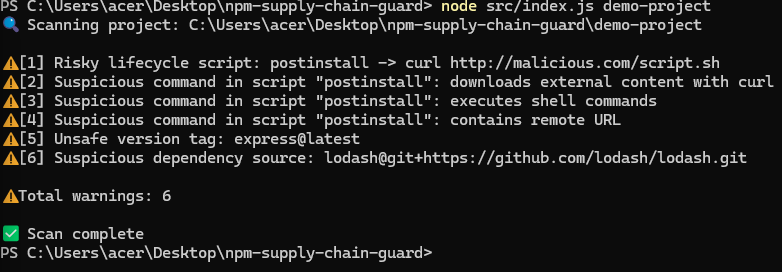
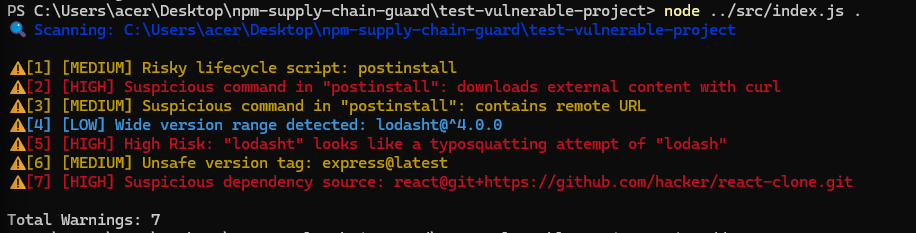
your message

diff --git a/src/index.js b/src/index.js
@@ -17,30 +17,24 @@ const SUSPICIOUS_PATTERNS = [
   { regex: /https?:\/\//i, reason: "contains remote URL", severity: "medium" },
 ];
 
-const CLOUD_RISKS = [
-  { regex: /169\.254\.169\.254/, reason: "Attempts to access Cloud Instance Metadata (AWS/GCP/Azure) - critical credential theft risk", severity: "high" },
-  { regex: /metadata\.google\.internal/i, reason: "Attempts to access GCP metadata endpoint", severity: "high" },
-  { regex: /AKIA[0-9A-Z]{16}/, reason: "Hardcoded AWS Access Key ID detected", severity: "high" },
-  { regex: /xox[baprs]-[0-9a-zA-Z]{10,48}/, reason: "Hardcoded Slack Token detected", severity: "high" }
-];
-
 // --- UTILITIES ---
 
-function getEditDistance(a, b) {
-  const matrix = Array.from({ length: a.length + 1 }, (_, i) => [i]);
-  for (let j = 1; j <= b.length; j++) matrix[0][j] = j;
-
-  for (let i = 1; i <= a.length; i++) {
-    for (let j = 1; j <= b.length; j++) {
-      const cost = a[i - 1] === b[j - 1] ? 0 : 1;
-      matrix[i][j] = Math.min(
-        matrix[i - 1][j] + 1,      
-        matrix[i][j - 1] + 1,      
-        matrix[i - 1][j - 1] + cost 
-      );
+// Fast O(n) check for a single character insertion, deletion, or substitution
+function isOneIndexChange(target, input) {
+  if (target === input || Math.abs(target.length - input.length) > 1) return false;
+  
+  let i = 0, j = 0, diffs = 0;
+  while (i < target.length && j < input.length) {
+    if (target[i] !== input[j]) {
+      diffs++;
+      if (diffs > 1) return false;
+      if (target.length > input.length) j--; // target has extra char
+      else if (input.length > target.length) i--; // input has extra char
     }
+    i++;
+    j++;
   }
-  return matrix[a.length][b.length];
+  return true;
 }
 
 function addWarning(warnings, type, message, severity = "low", meta = {}) {
@@ -48,27 +42,6 @@ function addWarning(warnings, type, message, severity = "low", meta = {}) {
 }
 
 // --- SCANNING ENGINES ---
-
-function scanCloudRisks(pkg, warnings) {
-  // We stringify the package to catch secrets hidden anywhere (descriptions, custom fields, scripts)
-  const pkgString = JSON.stringify(pkg);
-  
-  for (const risk of CLOUD_RISKS) {
-    if (risk.regex.test(pkgString)) {
-      addWarning(warnings, "cloud-risk", `Cloud security threat: ${risk.reason}`, risk.severity);
-    }
-  }
-}
-
-function scanTyposquatting(name, warnings) {
-  for (const topPkg of TOP_PACKAGES) {
-    if (name === topPkg) continue;
-    const distance = getEditDistance(name, topPkg);
-    if (distance === 1) {
-      addWarning(warnings, "typosquatting", `Possible typosquatting detected: "${name}" is very similar to "${topPkg}"`, "high", { target: topPkg });
-    }
-  }
-}
 
 function scanScripts(pkg, warnings) {
   if (!pkg.scripts) return;
@@ -84,6 +57,46 @@ function scanScripts(pkg, warnings) {
   }
 }
 
+function scanDependencies(pkg, warnings) {
+  const deps = {
+    ...(pkg.dependencies || {}),
+    ...(pkg.devDependencies || {}),
+    ...(pkg.optionalDependencies || {}),
+  };
+
+  for (const [name, version] of Object.entries(deps)) {
+    const normalized = String(version);
+
+    // 1. Check for suspicious sources (git, http)
+    if (/^(git\+|github:|https?:\/\/|file:)/i.test(normalized)) {
+      addWarning(warnings, "suspicious-source", `Suspicious dependency source: ${name}@${normalized}`, "high");
+    }
+
+    // 2. Check for unsafe versioning (latest, *)
+    if (normalized === "latest" || normalized === "*") {
+      addWarning(warnings, "unsafe-version", `Unsafe version tag: ${name}@${normalized}`, "medium");
+    }
+
+    // 3. Check for wide ranges
+    if (/^[~^><=]/.test(normalized)) {
+      addWarning(warnings, "wide-version-range", `Wide version range detected: ${name}@${normalized}`, "low");
+    }
+
+    // 4. Fast Typosquatting Check
+    for (const topPkg of TOP_PACKAGES) {
+      if (isOneIndexChange(topPkg, name)) {
+        addWarning(
+          warnings, 
+          "typosquatting", 
+          `High Risk: "${name}" looks like a typosquatting attempt of "${topPkg}"`, 
+          "high", 
+          { dependency: name, target: topPkg }
+        );
+      }
+    }
+  }
+}
+
 function scanPackageLock(projectPath, warnings) {
   const lockPath = path.join(projectPath, "package-lock.json");
   if (!fs.existsSync(lockPath)) return;
@@ -94,74 +107,65 @@ function scanPackageLock(projectPath, warnings) {
 
     for (const [pkgPath, meta] of Object.entries(packages)) {
       if (!pkgPath) continue;
+      
       const name = pkgPath.split("node_modules/").pop();
 
-      if (name) scanTyposquatting(name, warnings);
+      // Typosquatting check for every nested dependency in the tree
+      if (name) {
+        for (const topPkg of TOP_PACKAGES) {
+          if (isOneIndexChange(topPkg, name)) {
+             addWarning(warnings, "typosquatting", `Nested Typosquatting detected: "${name}" mimics "${topPkg}"`, "high");
+          }
+        }
+      }
 
+      // Deep Install Script Check
       if (meta.hasInstallScript) {
         addWarning(warnings, "hidden-install-script", `Nested dependency has install script: ${pkgPath}`, "medium");
       }
     }
   } catch (e) {
-    addWarning(warnings, "error", "Failed to parse lockfile");
+    addWarning(warnings, "error", "Failed to parse lockfile", "low");
   }
-}
-
-// --- OUTPUT FORMATTERS ---
-
-function printSarif(warnings) {
-  const sarif = {
-    version: "2.1.0",
-    $schema: "http://json.schemastore.org/sarif-2.1.0-rtm.5",
-    runs: [
-      {
-        tool: {
-          driver: {
-            name: "npm-supply-chain-guard",
-            informationUri: "https://github.com/doolamdattatreya2025/npm-supply-chain-guard",
-            rules: []
-          }
-        },
-        results: warnings.map(w => ({
-          ruleId: w.type,
-          level: w.severity === "high" ? "error" : "warning",
-          message: { text: w.message }
-        }))
-      }
-    ]
-  };
-  console.log(JSON.stringify(sarif, null, 2));
 }
 
 // --- MAIN RUNNER ---
 
-function scanProject(projectPath = ".", outputFormat = "text") {
+function scanProject(projectPath = ".") {
   const resolvedPath = path.resolve(projectPath);
   const pkgPath = path.join(resolvedPath, "package.json");
   const warnings = [];
 
-  if (!fs.existsSync(pkgPath)) return { ok: false, error: "No package.json found" };
-
-  const pkg = JSON.parse(fs.readFileSync(pkgPath, "utf-8"));
-
-  // Run all engines
-  scanScripts(pkg, warnings);
-  scanCloudRisks(pkg, warnings);
-  scanPackageLock(resolvedPath, warnings);
-
-  if (outputFormat === "sarif") {
-    printSarif(warnings);
-    return { ok: true, warnings };
+  if (!fs.existsSync(pkgPath)) {
+    console.error(`\x1b[31m❌ Error: No package.json found at ${resolvedPath}\x1b[0m`);
+    return { ok: false, error: "No package.json found" };
   }
 
-  // Print Standard Results
+  let pkg;
+  try {
+    pkg = JSON.parse(fs.readFileSync(pkgPath, "utf-8"));
+  } catch (e) {
+    console.error(`\x1b[31m❌ Error: Failed to parse package.json\x1b[0m`);
+    return { ok: false, error: "Failed to parse package.json" };
+  }
+
   console.log(`\x1b[34m🔍 Scanning: ${resolvedPath}\x1b[0m\n`);
-  
+
+  // --- THE FIX: ALL ENGINES NOW RUN ---
+  scanScripts(pkg, warnings);
+  scanDependencies(pkg, warnings); 
+  scanPackageLock(resolvedPath, warnings);
+
+  // Print Results with Colors
   if (warnings.length === 0) {
     console.log("\x1b[32m✅ No risks detected.\x1b[0m");
   } else {
     warnings.forEach((w, i) => {
-      const color = w.severity === "high" ? "\x1b[31m" : "\x1b[33m";
+      let color = "\x1b[37m"; // White default
+      if (w.severity === "high") color = "\x1b[31m"; // Red
+      if (w.severity === "medium") color = "\x1b[33m"; // Yellow
+      if (w.severity === "low") color = "\x1b[36m"; // Cyan
+      
       console.log(`${color}⚠ [${i + 1}] [${w.severity.toUpperCase()}] ${w.message}\x1b[0m`);
     });
     console.log(`\nTotal Warnings: ${warnings.length}`);
@@ -172,12 +176,9 @@ function scanProject(projectPath = ".", outputFormat = "text") {
 
 // CLI Entrypoint
 if (require.main === module) {
-  const args = process.argv.slice(2);
-  const isSarif = args.includes("--sarif");
-  const targetDir = args.find(arg => !arg.startsWith("--")) || ".";
-
-  const result = scanProject(targetDir, isSarif ? "sarif" : "text");
+  const result = scanProject(process.argv[2] || ".");
   
+  // Exit with error code 1 only if HIGH severity risks are found
   const hasHighRisk = result.warnings?.some(w => w.severity === "high");
   process.exit(hasHighRisk ? 1 : 0);
 }
